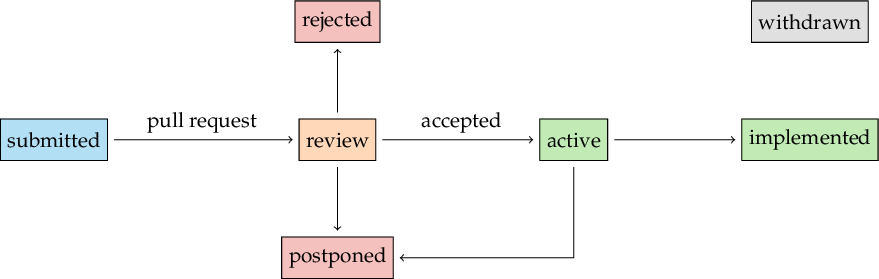
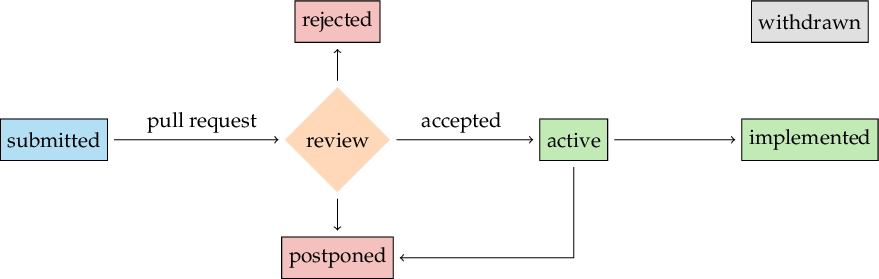
Figure shapes

Changed region(s): [[0.3072, 0.3154, 0.4608, 0.6882]]

diff --git a/0_aep_guidelines/aep_diagram.tex b/0_aep_guidelines/aep_diagram.tex
@@ -1,6 +1,7 @@
 \documentclass{standalone}
 \usepackage{tikz}
 \usepackage{mathpazo}
+\usetikzlibrary{shapes,snakes}
 
 \definecolor{aiidaorange}{RGB}{255,124,22}
 \definecolor{aiidagreen}{RGB}{48,184,7}
@@ -8,7 +9,7 @@
 \definecolor{marvelred}{RGB}{220,50,38}
 
 \tikzstyle{box}=[draw, fill=aiidablue!30, minimum size=2em]
-\tikzstyle{box-review}=[draw, fill=aiidaorange!30, minimum size=2em]
+\tikzstyle{box-review}=[diamond, fill=aiidaorange!30, minimum size=2em]
 \tikzstyle{box-implemented}=[draw, fill=aiidagreen!30, minimum size=2em]
 \tikzstyle{box-negative}=[draw, fill=marvelred!30, minimum size=2em]
 \tikzstyle{box-withdrawn}=[draw, fill=gray!30, minimum size=2em]
